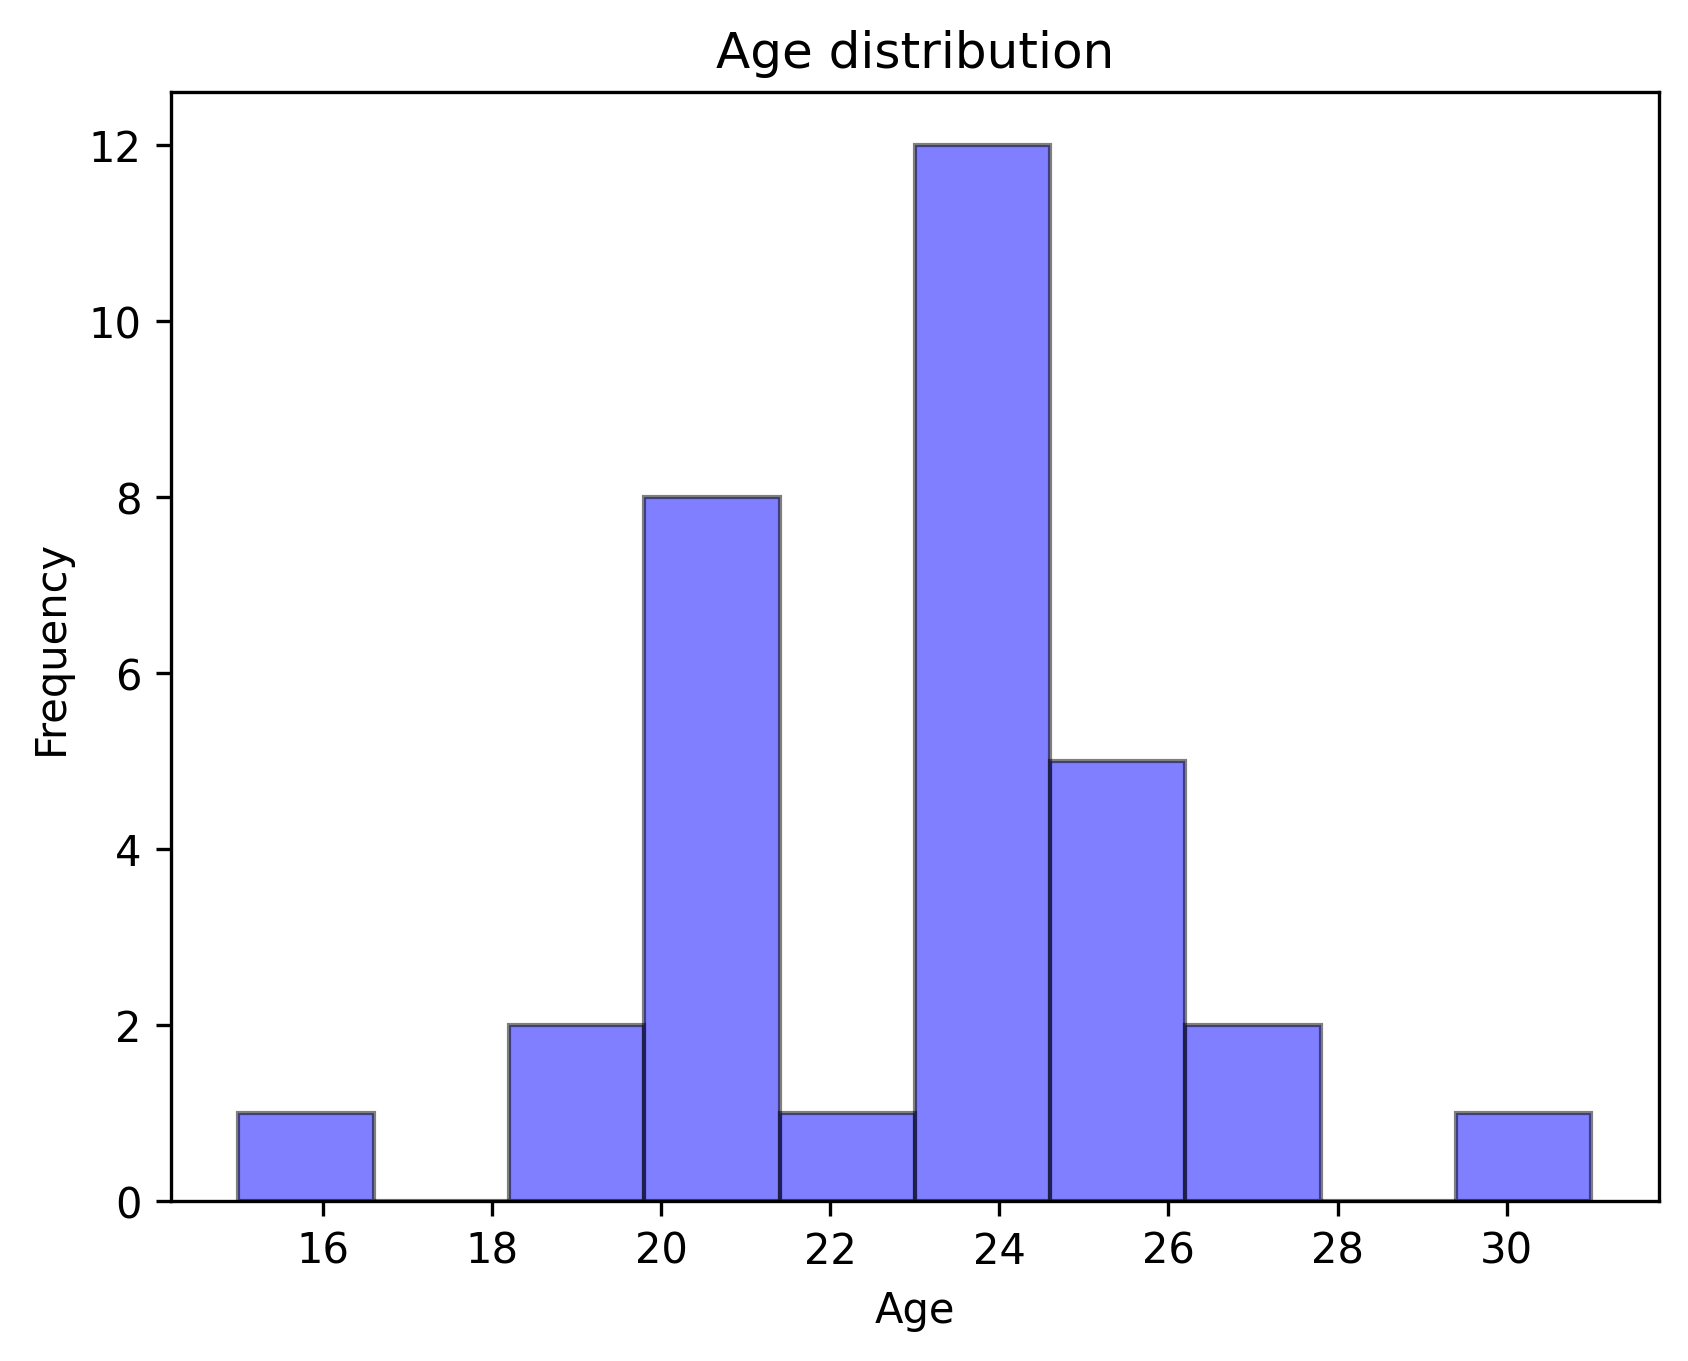
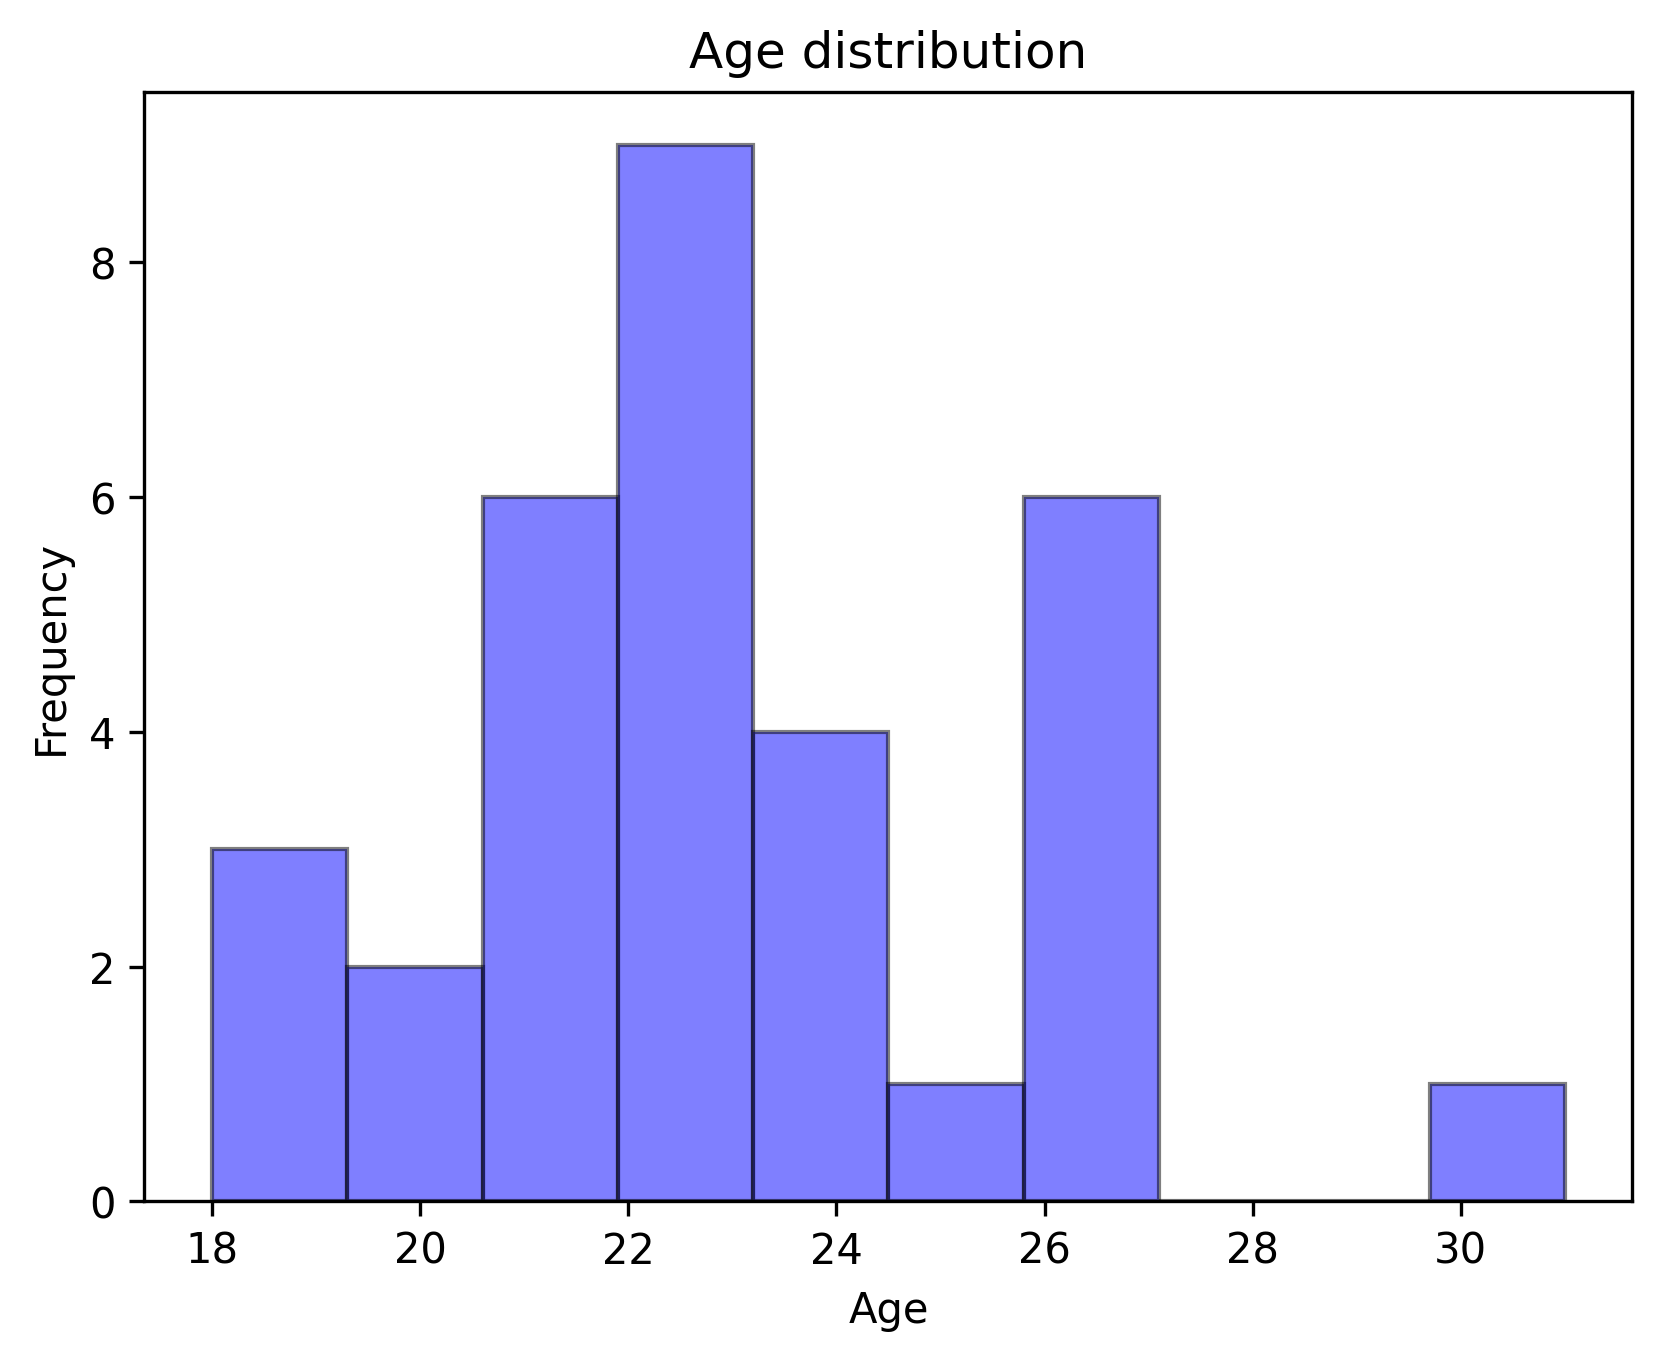
Aggiornamento questionario SUS e distribuzione età

diff --git a/Research/Quantitative/SUS/sus.py b/Research/Quantitative/SUS/sus.py
@@ -30,17 +30,14 @@ raw_questionnaire = 'Questionnaire.csv'
 df_anagrafica = []
 df_SUS = []
 with open(raw_questionnaire, mode='r') as csv_file:
-    df_questionnaire = pd.read_csv(csv_file)
-    print(df_questionnaire[['Name','Surname','Age',"Current educational level"]])
-    
+    df_questionnaire = pd.read_csv(csv_file)    
     plt.hist(df_questionnaire['Age'], bins=10, alpha=0.5, color='b', edgecolor='black')
     plt.title('Age distribution')
     plt.xlabel('Age')
     plt.ylabel('Frequency')
     plt.savefig("age_distribution.png", dpi=300, bbox_inches='tight')
 
-    # Create the SUS 
-    # take from column 12 to 19 
+    #Extract the SUS questions
     df_SUS = df_questionnaire.iloc[:, 9:19]
     df_SUS.insert(0, 'participant', range(1, 1 + len(df_SUS)))
     #substitute each column header with the question number
